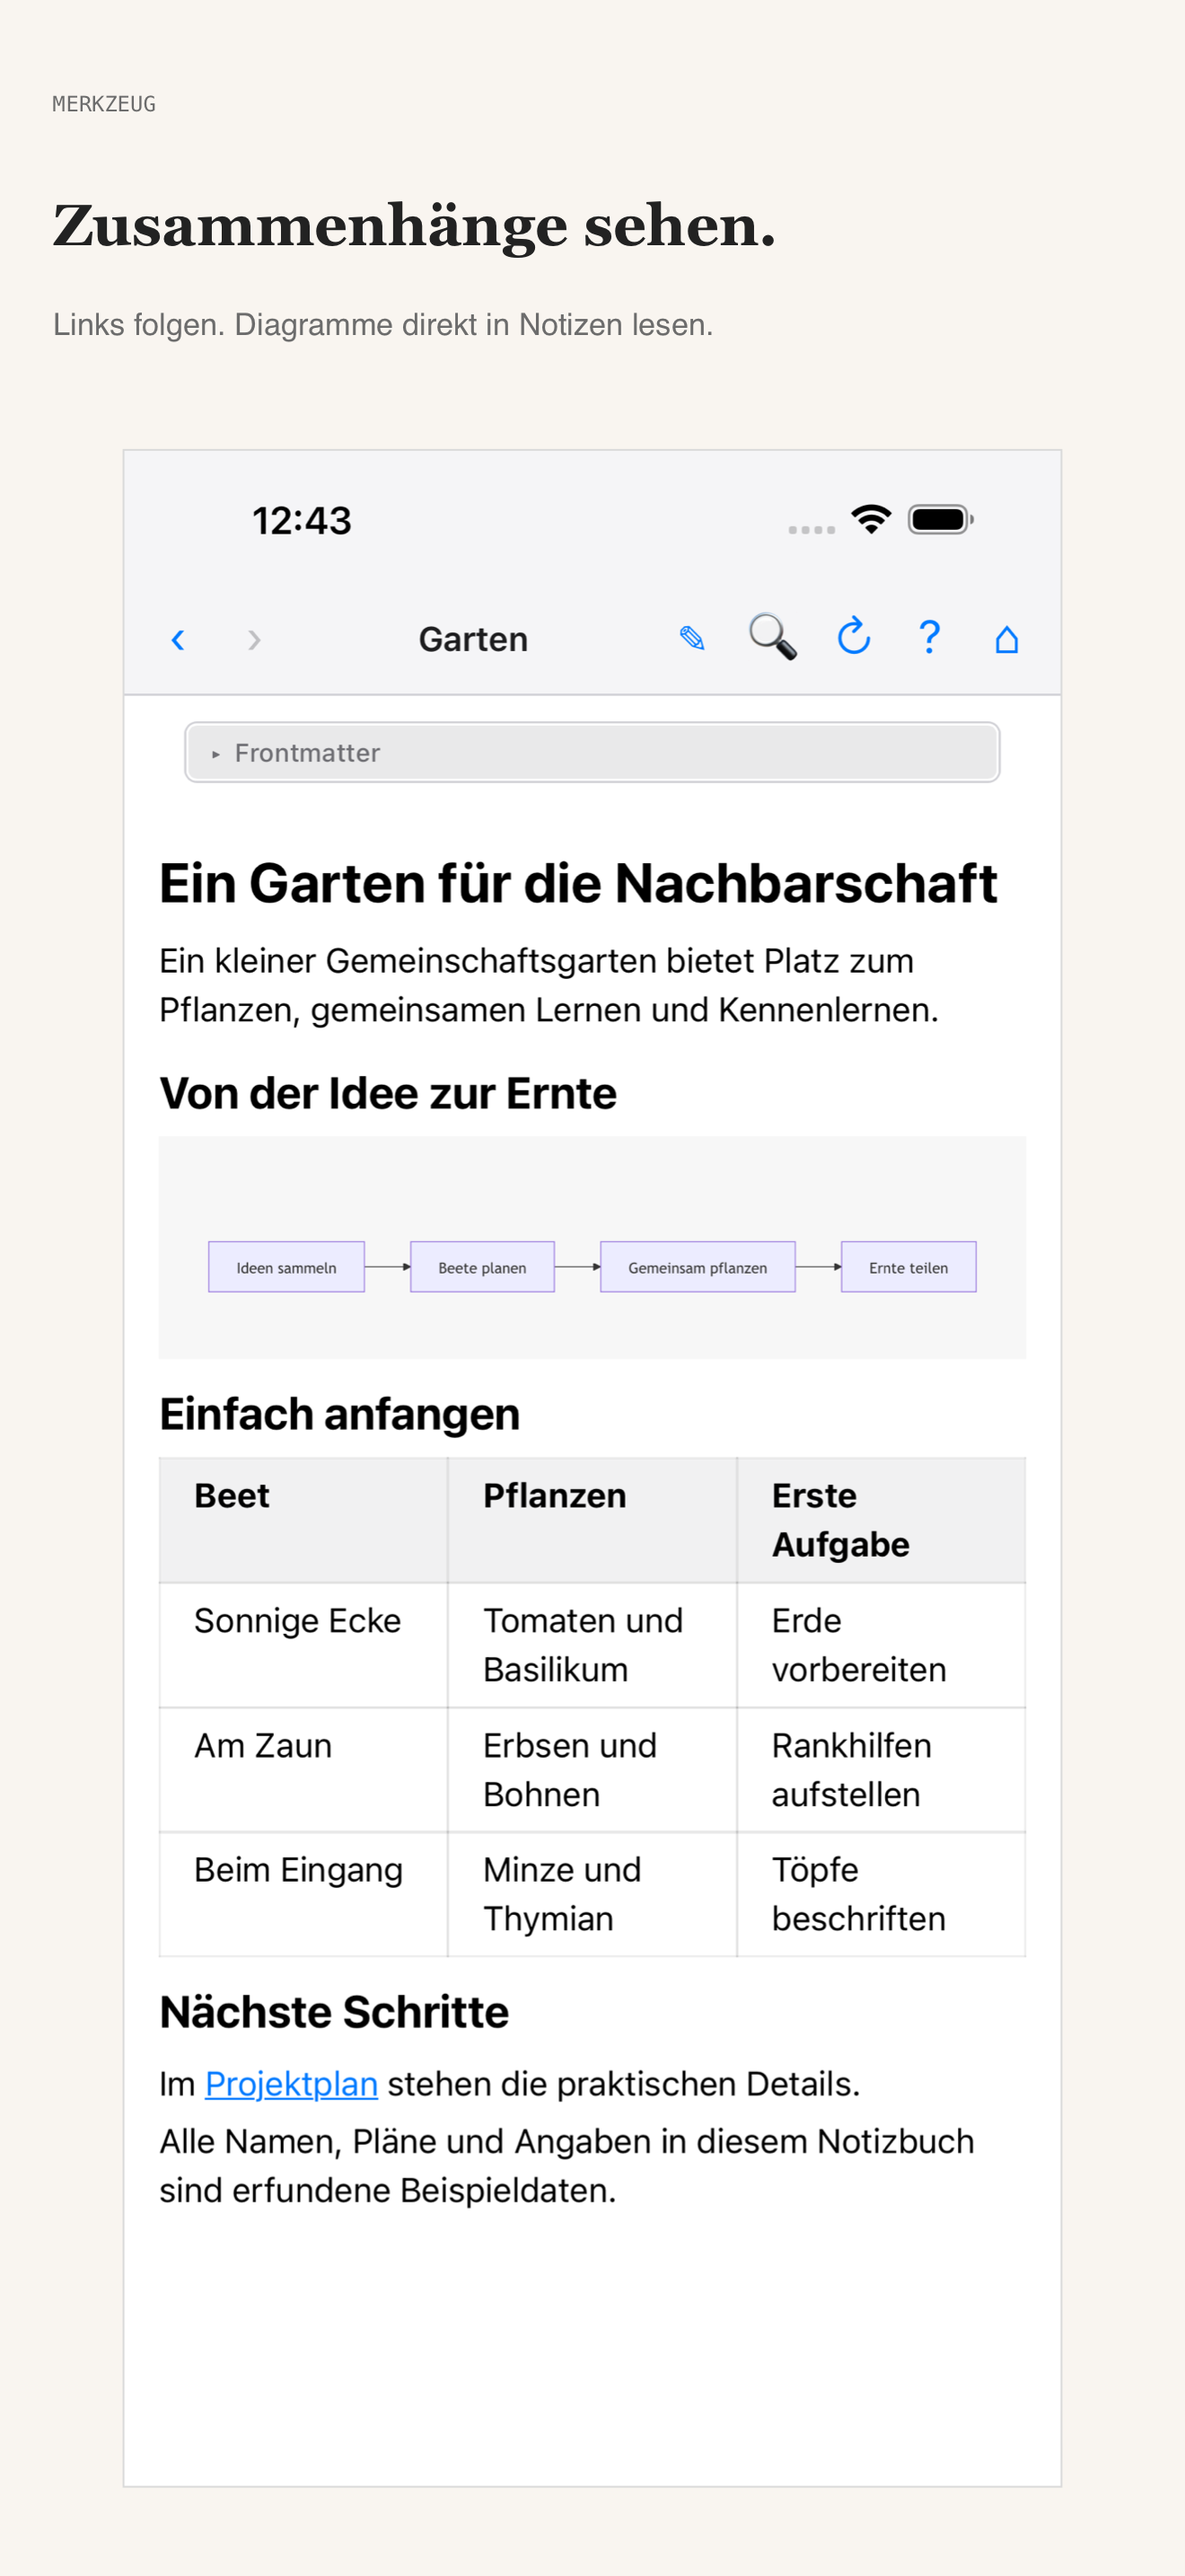
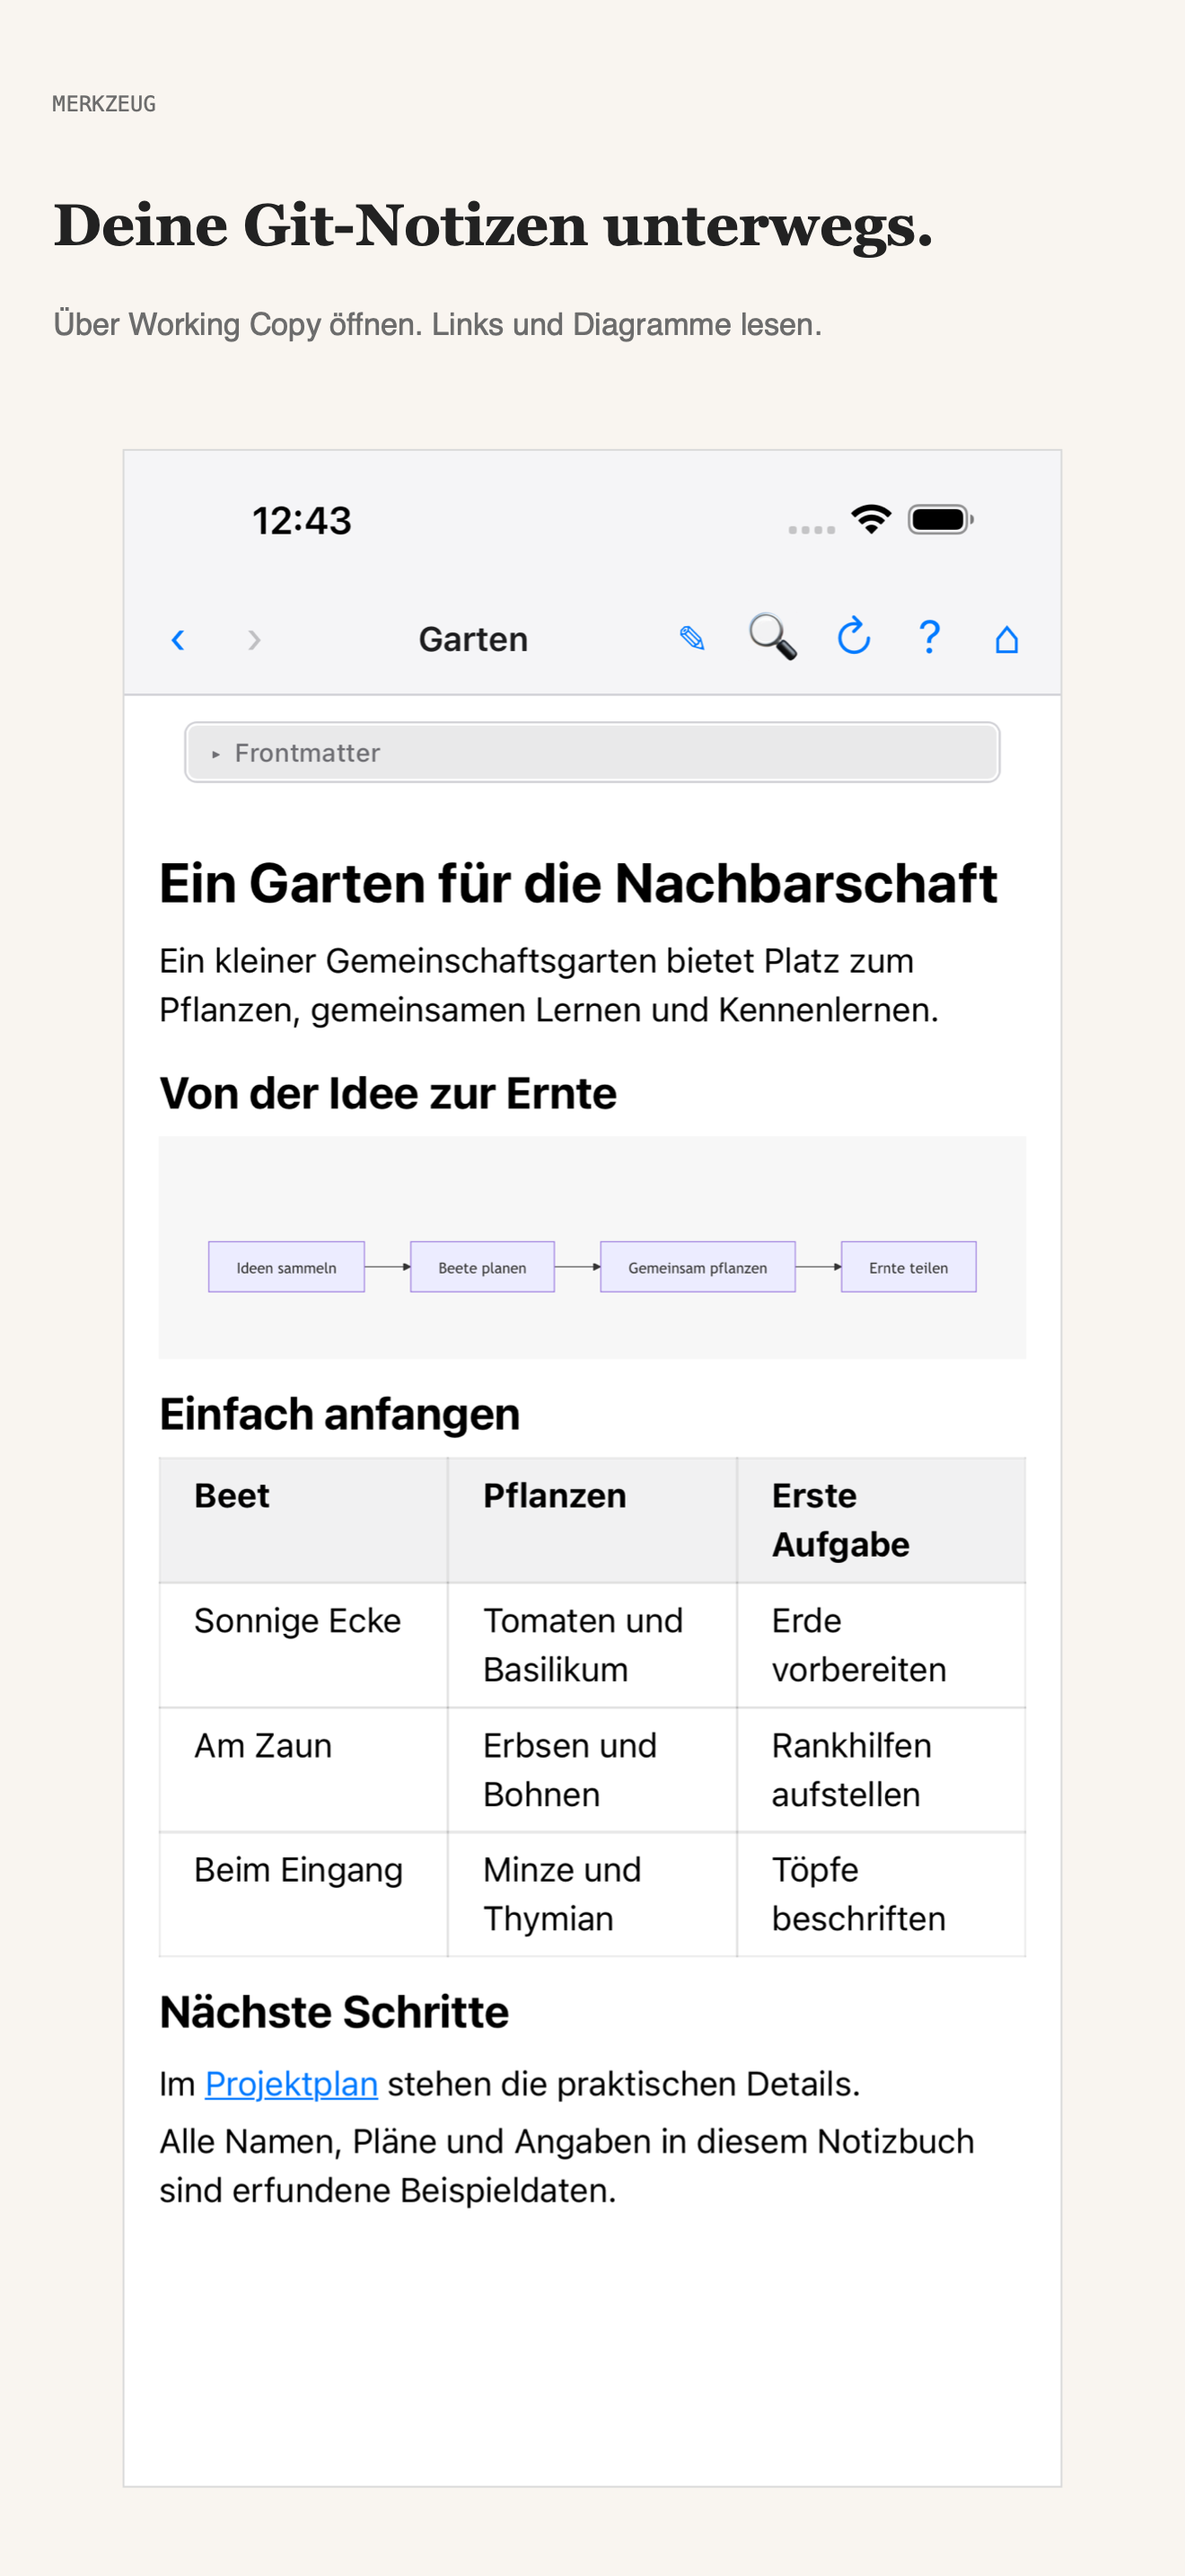
Highlight Git workflows and PDF templates in Store listings and screenshots

diff --git a/scripts/tests/git-status.test.ts b/scripts/tests/git-status.test.ts
@@ -1,0 +1,18 @@
+import {test} from 'node:test';
+import assert from 'node:assert/strict';
+import {mkdtemp,writeFile,rm} from 'node:fs/promises';
+import {tmpdir} from 'node:os';
+import {join} from 'node:path';
+import {execFileSync} from 'node:child_process';
+import {build} from 'esbuild';
+const compiled=await build({entryPoints:['crossplatform/src/main/git.ts'],bundle:true,platform:'node',format:'esm',write:false});
+const {gitStatus}=await import('data:text/javascript;base64,'+Buffer.from(compiled.outputFiles[0].text).toString('base64'));
+test('Git preserves the leading porcelain status column and full filename',async()=>{
+ const dir=await mkdtemp(join(tmpdir(),'merkzeug-git-test-'));
+ try{
+  const git=(...args:string[])=>execFileSync('git',['-c','user.name=Test','-c','user.email=test@example.invalid','-c','commit.gpgsign=false','-c','core.hooksPath=/dev/null',...args],{cwd:dir,stdio:'ignore'});
+  git('init','-b','main');await writeFile(join(dir,'Welcome.md'),'First\n');git('add','.');git('commit','-m','Initial');
+  await writeFile(join(dir,'Welcome.md'),'Changed\n');
+  const result=await gitStatus(dir);assert.deepEqual(result.changes,[{code:' M',path:'Welcome.md'}]);
+ }finally{await rm(dir,{recursive:true,force:true});}
+});

diff --git a/store/automation/FrameMain.swift b/store/automation/FrameMain.swift
@@ -12,7 +12,7 @@ import ImageIO
         for file in try FileManager.default.contentsOfDirectory(at: source, includingPropertiesForKeys: nil).sorted(by: { $0.path < $1.path }) where file.pathExtension == "png" {
             let parts = file.deletingPathExtension().lastPathComponent.split(separator: "-").map(String.init)
             guard parts.count == 3, ["macos", "iphone", "ipad"].contains(parts[0]),
-                  let caption = captions[parts[1]]?[parts[2]],
+                  let caption = captions[parts[1]]?[parts[0] != "macos" && parts[2] == "diagram" ? "repository" : parts[2]],
                   let imageSource = CGImageSourceCreateWithURL(file as CFURL, nil),
                   let image = CGImageSourceCreateImageAtIndex(imageSource, 0, nil) else { throw Failure.invalidFile(file.lastPathComponent) }
             let data = try ScreenshotFrame.render(image, title: caption.title, subtitle: caption.subtitle)

diff --git a/crossplatform/src/renderer/src/SettingsApp.tsx b/crossplatform/src/renderer/src/SettingsApp.tsx
@@ -50,10 +50,10 @@ export function SettingsApp(): React.JSX.Element {
 
   return (
     <div className="settings-app">
-      <h1>PDF-Vorlagen</h1>
+      <h1>{translate("PDF templates")}</h1>
 
       <section className="settings-section">
-        <h2>Vorlagen-Ordner</h2>
+        <h2>{translate("Templates folder")}</h2>
         <div className="settings-row">
           <span className="settings-path" title={state.templatesRoot}>
             {state.templatesRoot}
@@ -121,7 +121,7 @@ export function SettingsApp(): React.JSX.Element {
                 </option>
               ))}
               {state.assigned && !state.templates.includes(state.assigned) && (
-                <option value={state.assigned}>{state.assigned} (fehlt)</option>
+                <option value={state.assigned}>{state.assigned} ({translate("missing")})</option>
               )}
             </select>
           </div>

diff --git a/mobile/ios/App/ScreenshotTests/ScreenshotTests.swift b/mobile/ios/App/ScreenshotTests/ScreenshotTests.swift
@@ -28,7 +28,7 @@ final class ScreenshotTests: XCTestCase {
             let name = "\(edition)-\(locale)-\(scene)"
             let attachment = XCTAttachment(screenshot: raw)
             attachment.name = "raw-" + name; attachment.lifetime = .keepAlways; add(attachment)
-            let caption = try XCTUnwrap(captions[locale]?[scene])
+            let caption = try XCTUnwrap(captions[locale]?[scene == "diagram" ? "repository" : scene])
             let framed = try ScreenshotFrame.render(try XCTUnwrap(raw.image.cgImage), title: caption.title, subtitle: caption.subtitle)
             let store = XCTAttachment(data: framed, uniformTypeIdentifier: "public.png")
             store.name = "store-" + name; store.lifetime = .keepAlways; add(store)

diff --git a/scripts/tests/store-screenshots.test.ts b/scripts/tests/store-screenshots.test.ts
@@ -16,7 +16,7 @@ test('JWT is ES256 with a short expiry and no secret in the payload',()=>{
  assert.ok(verify('sha256',Buffer.from(`${head}.${body}`),{key:publicKey,dsaEncoding:'ieee-p1363'},Buffer.from(sig,'base64url')));
 });
 test('reviewed bundle is complete and integrity validated',async()=>{
- const b=await loadBundle('store/upload/manifest.json');assert.equal(b.groups.length,6);assert.equal(b.groups.flatMap(g=>g.images).length,18);
+ const b=await loadBundle('store/upload/manifest.json');assert.equal(b.groups.length,6);assert.equal(b.groups.flatMap(g=>g.images).length,22);
 });
 test('planner preserves existing sets by default and detects identical content',async()=>{
  const b={appId:'1',groups:[group]};

diff --git a/crossplatform/src/main/index.ts b/crossplatform/src/main/index.ts
@@ -318,6 +318,8 @@ app.whenReady().then(() => {
             await new Promise((r) => setTimeout(r, 3000))
             const settingsWin = BrowserWindow.getAllWindows().find((w) => w !== mainWin)
             if (settingsWin) {
+              settingsWin.setContentSize(1280, 800)
+              await new Promise((r) => setTimeout(r, 1000))
               const image = await settingsWin.webContents.capturePage()
               const { writeFileSync } = await import('node:fs')
               writeFileSync(target.replace('.png', '-settings.png'), image.toPNG())

diff --git a/packages/core/src/locales/de.ts b/packages/core/src/locales/de.ts
@@ -1,5 +1,9 @@
 /** German translations; English message text is the stable source key. */
 export const de: Readonly<Record<string, string>> = {
+  "PDF templates": "PDF-Vorlagen",
+  "Templates folder": "Vorlagen-Ordner",
+  "missing": "fehlt",
+  "Commit message": "Commit-Nachricht",
   "Contact Support…": "Support kontaktieren…",
   "macOS did not grant persistent access to the selected folder.": "macOS hat keinen dauerhaften Zugriff auf den ausgewählten Ordner gewährt.",
   "Cancel": "Abbrechen",

diff --git a/crossplatform/src/main/git.ts b/crossplatform/src/main/git.ts
@@ -11,7 +11,7 @@ function git(vault: string, args: string[]): Promise<{ code: number; out: string
       (error, stdout, stderr) => {
         const rawCode = error ? (error as { code?: unknown }).code : 0
         const code = typeof rawCode === 'number' ? rawCode : error ? 1 : 0
-        resolvePromise({ code, out: `${stdout}${stderr}`.trim() })
+        resolvePromise({ code, out: `${stdout}${stderr}`.trimEnd() })
       }
     )
   })

diff --git a/crossplatform/src/renderer/src/components/GitBar.tsx b/crossplatform/src/renderer/src/components/GitBar.tsx
@@ -62,7 +62,7 @@ export function GitBar({
             </ul>
           )}
           <input
-            placeholder="Commit-Nachricht"
+            placeholder={translate("Commit message")}
             value={message}
             disabled={busy}
             onChange={(e) => setMessage(e.target.value)}

diff --git a/scripts/capture-mac-demo.py b/scripts/capture-mac-demo.py
@@ -12,7 +12,7 @@ ROOT = Path(__file__).resolve().parents[1]
 parser = argparse.ArgumentParser(description=__doc__)
 parser.add_argument('output', type=Path)
 parser.add_argument('--locale', choices=['en', 'de'])
-parser.add_argument('--scene', choices=['writing', 'diagram', 'frontmatter'])
+parser.add_argument('--scene', choices=['writing', 'diagram', 'frontmatter', 'git', 'pdf'])
 args = parser.parse_args()
 args.output.mkdir(parents=True, exist_ok=True)
 resolved = subprocess.check_output(['node', '-e', "const executable = require('electron'); console.log(JSON.stringify(executable))"], cwd=ROOT/'crossplatform', text=True)
@@ -22,6 +22,10 @@ if not electron.exists(): raise SystemExit('Install dependencies and run npm run
 for language, scenes in {'en': {'writing': 'Welcome', 'diagram': 'Projects;;Garden', 'frontmatter': "Welcome;;js:document.querySelector('.frontmatter-toggle')?.click()"},
                          'de': {'writing': 'Willkommen', 'diagram': 'Projekte;;Garten', 'frontmatter': "Willkommen;;js:document.querySelector('.frontmatter-toggle')?.click()"}}.items():
     if args.locale and language != args.locale: continue
+    welcome = 'Welcome' if language == 'en' else 'Willkommen'
+    template = 'Project report' if language == 'en' else 'Projektbericht'
+    scenes['git'] = welcome + ";;js:document.querySelector('.git-summary')?.click()"
+    scenes['pdf'] = welcome + ';;menu:exportPdf;;settingswindow'
     for scene, clicks in scenes.items():
         if args.scene and scene != args.scene: continue
         with tempfile.TemporaryDirectory(prefix='merkzeug-capture-') as profile:
@@ -29,11 +33,38 @@ for language, scenes in {'en': {'writing': 'Welcome', 'diagram': 'Projects;;Gard
             target.unlink(missing_ok=True)
             demo = Path(profile) / 'Demo Vault'
             shutil.copytree(ROOT / 'store/demo' / language, demo)
+            if scene == 'git':
+                def git(*args):
+                    subprocess.run(['git', '-c', 'user.name=Demo Author', '-c', 'user.email=demo@example.invalid', *args], cwd=demo, check=True, stdout=subprocess.DEVNULL)
+                git('init', '-b', 'main')
+                git('add', '.')
+                git('commit', '-m', 'Create shared notebook')
+                # A real local-only remote enables the UI without contacting any server.
+                remote = Path(profile) / 'shared-notes.git'
+                subprocess.run(['git', 'init', '--bare', str(remote)], check=True, stdout=subprocess.DEVNULL, stderr=subprocess.DEVNULL)
+                git('remote', 'add', 'origin', str(remote))
+                git('push', '-u', 'origin', 'main')
+                note = demo / (welcome + '.md')
+                note.write_text(note.read_text() + ('\nNext step: share the project plan.\n' if language == 'en' else '\nNächster Schritt: den Projektplan teilen.\n'))
+            if scene == 'pdf':
+                template_dir = Path(profile) / 'PDF Templates' / template
+                template_dir.mkdir(parents=True)
+                (template_dir/'kopfzeile.html').write_text('<div style="font-size:9px;width:100%;text-align:center">{{titel}}</div>')
+                (template_dir/'fusszeile.html').write_text('<div style="font-size:9px;width:100%;text-align:center"><span class="pageNumber"></span> / <span class="totalPages"></span></div>')
+                (template_dir/'deckblatt.html').write_text('<h1>{{titel}}</h1>')
+                (demo/'.merkzeug').mkdir(exist_ok=True)
+                (demo/'.merkzeug/settings.json').write_text(json.dumps({'pdfTemplate':template}))
             env = dict(os.environ, MERKZEUG_SCREENSHOT=str(target), MERKZEUG_SCREENSHOT_PROFILE=profile,
-                       MERKZEUG_VAULT=str(demo), MERKZEUG_CLICK=clicks,
-                       MERKZEUG_SCREENSHOT_READY='.mermaid-preview svg' if scene == 'diagram' else '.ProseMirror h1')
+                       MERKZEUG_VAULT=str(demo), MERKZEUG_CLICK=clicks, MERKZEUG_TEMPLATES_ROOT=str(Path(profile)/'PDF Templates'),
+                       MERKZEUG_SCREENSHOT_READY='.mermaid-preview svg' if scene == 'diagram' else '.git-detail' if scene == 'git' else '.ProseMirror h1')
+            if scene == 'pdf':
+                env.update(MERKZEUG_PDF_TARGET=str((args.output/f'macos-{language}-template-proof.pdf').resolve()), MERKZEUG_PDF_TEMPLATE=template)
             env.pop('ELECTRON_RUN_AS_NODE', None)
             subprocess.run([str(electron), str(ROOT / 'crossplatform'), '--lang=' + language], env=env, check=True, timeout=90)
+            if scene == 'pdf':
+                proof = args.output/f'macos-{language}-template-proof.pdf'
+                if not proof.is_file() or not proof.read_bytes().startswith(b'%PDF-'): raise SystemExit('Template PDF export did not finish')
+                target.with_name(target.stem + '-settings.png').replace(target)
             if not target.is_file(): raise SystemExit('Capture failed: ' + str(target))
             print(target, flush=True)
 print('Desktop build candidates; recapture from the signed MAS build before store upload.')

diff --git a/scripts/reframe-store-ios.py b/scripts/reframe-store-ios.py
@@ -1,0 +1,26 @@
+#!/usr/bin/env python3
+"""Recompose verified native Cloud captures after caption-only changes."""
+import argparse, hashlib, json, shutil, subprocess
+from pathlib import Path
+p=argparse.ArgumentParser(description=__doc__)
+p.add_argument('source', type=Path)
+p.add_argument('output', type=Path)
+a=p.parse_args()
+if a.output.exists() and any(a.output.iterdir()): p.error('Use an empty output directory')
+original=json.loads((a.source/'manifest.json').read_text())
+entries={entry['file']:entry for entry in original['screenshots']}
+result={'testSummary':original.get('testSummary'), 'sourceManifestSHA256':hashlib.sha256((a.source/'manifest.json').read_bytes()).hexdigest(), 'status':'Existing native captures with updated captions; visual review required', 'screenshots':[]}
+for edition in ('iphone','ipad'):
+ for language in ('en','de'):
+  for scene in ('writing','diagram','frontmatter'):
+   name=f'{edition}/raw/{edition}-{language}-{scene}.png'
+   data=(a.source/name).read_bytes()
+   if hashlib.sha256(data).hexdigest()!=entries[name]['sha256']: p.error('Raw capture checksum mismatch')
+   target=a.output/name;target.parent.mkdir(parents=True,exist_ok=True);shutil.copyfile(a.source/name,target)
+   result['screenshots'].append(entries[name])
+ subprocess.run(['python3',str(Path(__file__).with_name('frame-store-screenshots.py')),str(a.output/edition/'raw'),str(a.output/edition/'store'),'--edition',edition],check=True)
+ framed=json.loads((a.output/edition/'store/manifest.json').read_text())
+ result.setdefault('composition',{})[edition]={k:v for k,v in framed.items() if k!='screenshots'}
+ for item in framed['screenshots']:
+  result['screenshots'].append({**item,'file':f'{edition}/store/'+item['file']})
+(a.output/'manifest.json').write_text(json.dumps(result,indent=2)+'\n')

diff --git a/scripts/prepare-store-upload.py b/scripts/prepare-store-upload.py
@@ -16,7 +16,7 @@ for edition,source,display in [('iphone',a.ios/'iphone/store','APP_IPHONE_67'),(
  manifest['provenance'][edition]={'manifestSHA256':hashlib.sha256(origin.read_bytes()).hexdigest(),'commit':source_manifest.get('commit'),'source':'Electron CI' if edition=='macos' else 'Xcode Cloud xcresult'}
  for lang,locale in [('en','en-US'),('de','de-DE')]:
   group={'platform':'MAC_OS' if edition=='macos' else 'IOS','locale':locale,'displayType':display,'images':[]}
-  for scene in ['writing','diagram','frontmatter']:
+  for scene in (['git','pdf','writing','diagram','frontmatter'] if edition=='macos' else ['diagram','writing','frontmatter']):
    name=f'{edition}-{lang}-{scene}.png';image=source/name;digest=hashlib.sha256(image.read_bytes()).hexdigest()
    key=name if edition=='macos' else f'{edition}/store/{name}'
    if entries[key]['sha256']!=digest: p.error(f'Capture provenance mismatch: {name}')
@@ -25,4 +25,4 @@ for edition,source,display in [('iphone',a.ios/'iphone/store','APP_IPHONE_67'),(
   manifest['groups'].append(group)
 a.output.mkdir(parents=True,exist_ok=True)
 (a.output/'manifest.json').write_text(json.dumps(manifest,indent=2)+'\n')
-print('Prepared 18 captioned images. Review the source change before release upload.')
+print('Prepared captioned images. Review the source change before release upload.')
